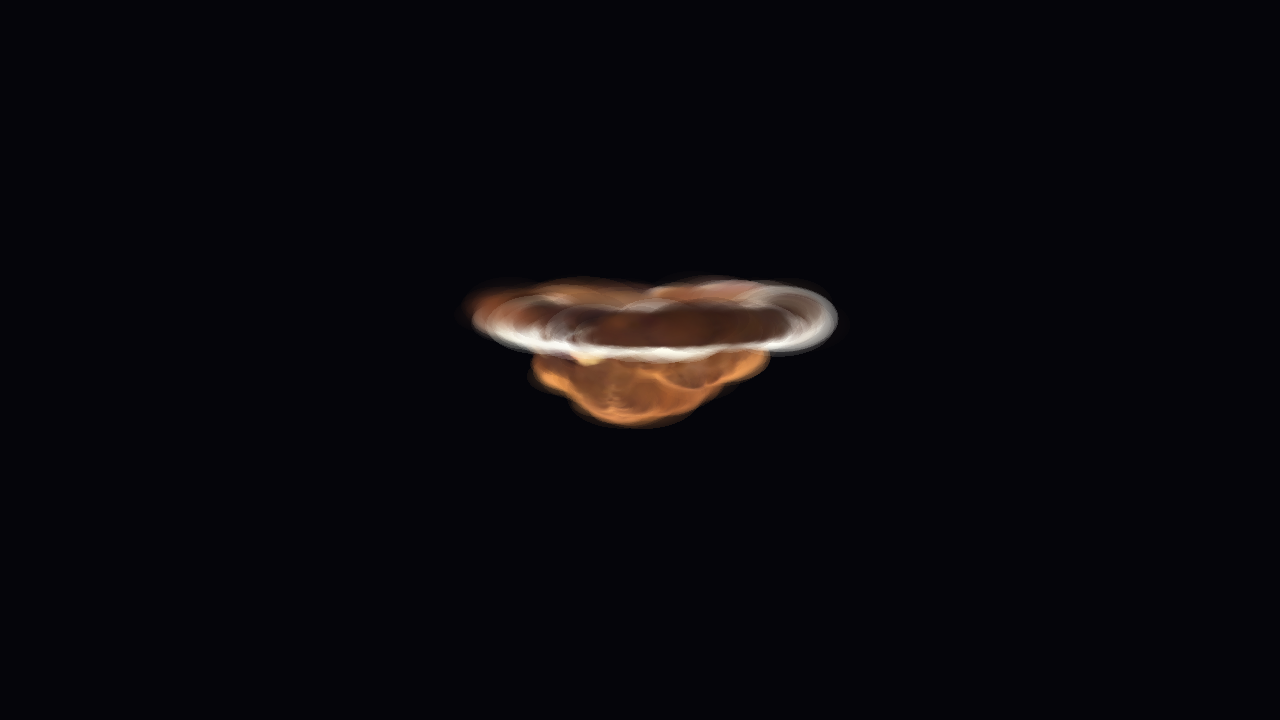
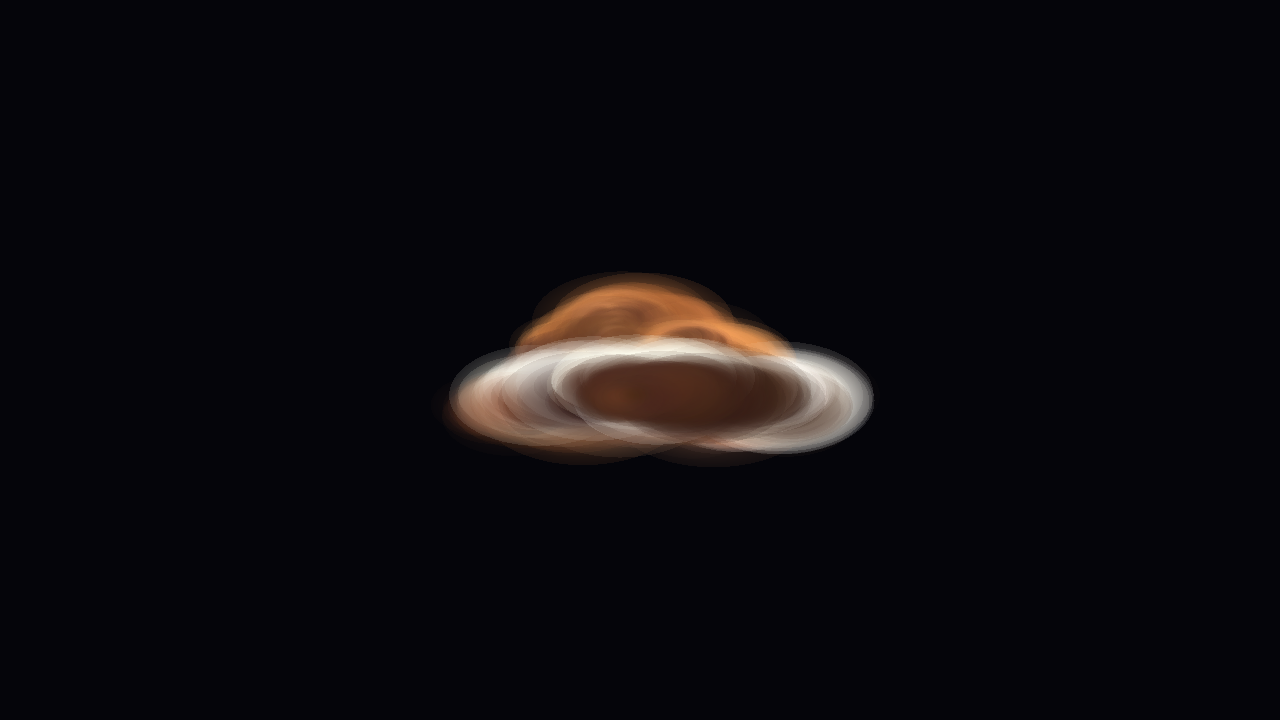
Stabilize first-smoke viewer orbit and zoom

Changed region(s): [[0.3438, 0.3667, 0.6875, 0.6417]]

diff --git a/src/splatSort.ts b/src/splatSort.ts
@@ -8,7 +8,20 @@ interface DepthKey {
 export interface SplatSortRefreshState {
   sortedIds: Uint32Array;
   viewDepthKey: Float32Array;
+  lastRefreshMs: number;
 }
+
+export interface SplatSortRefreshOptions {
+  epsilon?: number;
+  minIntervalMs?: number;
+  nowMs?: number;
+}
+
+type NormalizedSplatSortRefreshOptions = {
+  epsilon: number;
+  minIntervalMs?: number;
+  nowMs?: number;
+};
 
 const VIEW_DEPTH_DIRECTION_INDICES = [2, 6, 10] as const;
 
@@ -44,6 +57,7 @@ export function createSplatSortRefreshState(
   return {
     sortedIds: sortSplatIdsBackToFront(positions, viewMatrix),
     viewDepthKey: captureViewDepthKey(viewMatrix),
+    lastRefreshMs: Number.NEGATIVE_INFINITY,
   };
 }
 
@@ -51,15 +65,39 @@ export function refreshSplatSortForView(
   positions: NumericArray,
   viewMatrix: NumericArray,
   state: SplatSortRefreshState,
-  epsilon = 1e-6
+  options: SplatSortRefreshOptions | number = {}
 ): boolean {
+  const { epsilon, minIntervalMs, nowMs } = normalizeRefreshOptions(options);
   if (!viewDepthKeyChanged(state.viewDepthKey, viewMatrix, epsilon)) {
+    return false;
+  }
+  if (
+    minIntervalMs !== undefined &&
+    nowMs !== undefined &&
+    nowMs - state.lastRefreshMs < minIntervalMs
+  ) {
     return false;
   }
 
   state.sortedIds = sortSplatIdsBackToFront(positions, viewMatrix);
   state.viewDepthKey = captureViewDepthKey(viewMatrix);
+  if (nowMs !== undefined) {
+    state.lastRefreshMs = nowMs;
+  }
   return true;
+}
+
+function normalizeRefreshOptions(
+  options: SplatSortRefreshOptions | number
+): NormalizedSplatSortRefreshOptions {
+  if (typeof options === "number") {
+    return { epsilon: options };
+  }
+  return {
+    epsilon: options.epsilon ?? 1e-6,
+    minIntervalMs: options.minIntervalMs,
+    nowMs: options.nowMs,
+  };
 }
 
 export function captureViewDepthKey(viewMatrix: NumericArray): Float32Array {

diff --git a/src/main.ts b/src/main.ts
@@ -2,11 +2,11 @@ import { initGPU, resizeCanvas, GPU } from "./gpu.js";
 import { createCamera, bindCameraControls, updateCamera, getViewMatrix, getProjectionMatrix } from "./camera.js";
 import { createStorageBuffer, createUniformBuffer } from "./buffers.js";
 import { createTimestamps, resolveTimestamps, readTimestamps, TimestampHelper } from "./timestamps.js";
-import { mulMat4 } from "./math.js";
 import {
   REAL_SCANIVERSE_MIN_RADIUS_PX,
   REAL_SCANIVERSE_SMOKE_ASSET_PATH,
   REAL_SCANIVERSE_SPLAT_SCALE,
+  composeFirstSmokeViewProjection,
   configureCameraForSplatBounds,
   createMeshSplatSmokeEvidence,
   exposeMeshSplatSmokeEvidence,
@@ -21,6 +21,7 @@ import { fetchFirstSmokeSplatPayload, uploadSplatAttributeBuffers } from "./spla
 
 const statsEl = document.getElementById("stats")!;
 const canvas = document.getElementById("canvas") as HTMLCanvasElement;
+const CPU_SORT_REFRESH_MIN_INTERVAL_MS = 125;
 
 async function main() {
   const gpu = await initGPU(canvas);
@@ -113,8 +114,13 @@ async function main() {
     // Upload uniforms
     const view = getViewMatrix(cam);
     const proj = getProjectionMatrix(cam, aspect);
-    const viewProj = mulMat4(proj, view);
-    if (refreshSplatSortForView(splatAttributes.positions, view, sortState)) {
+    const viewProj = composeFirstSmokeViewProjection(proj, view);
+    if (
+      refreshSplatSortForView(splatAttributes.positions, view, sortState, {
+        minIntervalMs: CPU_SORT_REFRESH_MIN_INTERVAL_MS,
+        nowMs: now,
+      })
+    ) {
       gpu.device.queue.writeBuffer(sortedIndexBuffer, 0, sortState.sortedIds);
     }
     writeSplatPlateFrameUniforms(

diff --git a/tests/cpuDepthSort.test.ts b/tests/cpuDepthSort.test.ts
@@ -134,6 +134,54 @@ test("does not refresh when only camera depth translation changes", () => {
   assert.deepEqual(Array.from(state.sortedIds), [1, 0]);
 });
 
+test("throttles repeated refreshes for interactive CPU sorting", () => {
+  const positions = new Float32Array([
+    -1, 0, 0, // id 0
+    1, 0, 0, // id 1
+  ]);
+  const xDepthView = new Float32Array([
+    1, 0, 1, 0,
+    0, 1, 0, 0,
+    0, 0, 0, 0,
+    0, 0, 0, 1,
+  ]);
+  const negXDepthView = new Float32Array([
+    1, 0, -1, 0,
+    0, 1, 0, 0,
+    0, 0, 0, 0,
+    0, 0, 0, 1,
+  ]);
+
+  const state = createSplatSortRefreshState(positions, xDepthView);
+
+  assert.equal(
+    refreshSplatSortForView(positions, negXDepthView, state, {
+      minIntervalMs: 100,
+      nowMs: 0,
+    }),
+    true
+  );
+  assert.deepEqual(Array.from(state.sortedIds), [1, 0]);
+
+  assert.equal(
+    refreshSplatSortForView(positions, xDepthView, state, {
+      minIntervalMs: 100,
+      nowMs: 50,
+    }),
+    false
+  );
+  assert.deepEqual(Array.from(state.sortedIds), [1, 0]);
+
+  assert.equal(
+    refreshSplatSortForView(positions, xDepthView, state, {
+      minIntervalMs: 100,
+      nowMs: 100,
+    }),
+    true
+  );
+  assert.deepEqual(Array.from(state.sortedIds), [0, 1]);
+});
+
 test("rejects malformed position and matrix inputs", () => {
   assert.throws(
     () => sortSplatIdsBackToFront(new Float32Array([0, 1]), identityView),

diff --git a/src/realSmokeScene.ts b/src/realSmokeScene.ts
@@ -1,4 +1,5 @@
 import type { Camera } from "./camera.js";
+import { mulMat4, type mat4 } from "./math.js";
 import { framingFromBounds, type SplatAttributes, type SplatBounds } from "./splats.js";
 
 export const REAL_SCANIVERSE_SMOKE_ASSET_PATH =
@@ -6,6 +7,13 @@ export const REAL_SCANIVERSE_SMOKE_ASSET_PATH =
 
 export const REAL_SCANIVERSE_SPLAT_SCALE = 3000;
 export const REAL_SCANIVERSE_MIN_RADIUS_PX = 1.5;
+
+const VIEWER_VERTICAL_FLIP = new Float32Array([
+  1, 0, 0, 0,
+  0, -1, 0, 0,
+  0, 0, 1, 0,
+  0, 0, 0, 1,
+]);
 
 export interface MeshSplatSmokeEvidence {
   readonly ready: boolean;
@@ -33,6 +41,10 @@ export function configureCameraForSplatBounds(camera: Camera, bounds: SplatBound
   camera.far = framing.far;
   camera.azimuth = 0;
   camera.elevation = 0.18;
+}
+
+export function composeFirstSmokeViewProjection(projection: mat4, view: mat4): mat4 {
+  return mulMat4(VIEWER_VERTICAL_FLIP, mulMat4(projection, view));
 }
 
 export function createMeshSplatSmokeEvidence(

diff --git a/src/splatPlateContract.ts b/src/splatPlateContract.ts
@@ -29,6 +29,29 @@ export function getSplatPlateDrawCall(splatCount: number): SplatPlateDrawCall | 
   };
 }
 
+export function computeSplatPlateRadiusPx(
+  radius: number,
+  clipW: number,
+  splatScale = 1,
+  minRadiusPx = 1.5
+): number {
+  if (!Number.isFinite(radius) || radius < 0) {
+    throw new Error("Splat radius must be a finite non-negative number");
+  }
+  if (!Number.isFinite(clipW)) {
+    throw new Error("Splat clip w must be finite");
+  }
+  if (!Number.isFinite(splatScale) || splatScale < 0) {
+    throw new Error("Splat scale must be a finite non-negative number");
+  }
+  if (!Number.isFinite(minRadiusPx) || minRadiusPx < 0) {
+    throw new Error("Minimum splat radius must be a finite non-negative number");
+  }
+
+  const safeW = Math.max(Math.abs(clipW), 0.001);
+  return Math.max((radius * splatScale) / safeW, minRadiusPx);
+}
+
 export function writeSplatPlateFrameUniforms(
   target: Float32Array,
   viewProj: Float32Array,

diff --git a/smoke-reports/visual-smoke-real/report.md b/smoke-reports/visual-smoke-real/report.md
@@ -1,8 +1,8 @@
 # Visual Smoke Report
 
 - Status: PASS
-- Generated: 2026-04-28T01:59:42.204Z
-- URL: http://127.0.0.1:60033/
+- Generated: 2026-04-28T02:42:56.331Z
+- URL: http://127.0.0.1:63569/
 - Screenshot: `canvas.png`
 - Analysis JSON: `analysis.json`
 
@@ -10,9 +10,9 @@
 
 - Canvas PNG: 1280x720
 - Nonblank: true
-- Changed pixels: 38111 / 921600 (4.135%)
-- Average background delta: 3.66
-- Distinct colors: 22509
+- Changed pixels: 57911 / 921600 (6.284%)
+- Average background delta: 5.71
+- Distinct colors: 24831
 
 ## Splat Evidence
 
@@ -41,9 +41,9 @@
   "splatCount": 94406,
   "sortedIdCount": 94406,
   "boundsRadius": 0.22154541313648224,
-  "statsText": "1280×720 | 30 fps | 94,406 real Scaniverse splats | render: 21.38ms",
+  "statsText": "1280×720 | 111 fps | 94,406 real Scaniverse splats | render: 2.80ms",
   "title": "Deferred Splat+Mesh Renderer",
-  "bodyText": "1280×720 | 30 fps | 94,406 real Scaniverse splats | render: 21.38ms",
+  "bodyText": "1280×720 | 111 fps | 94,406 real Scaniverse splats | render: 2.80ms",
   "canvas": {
     "width": 1280,
     "height": 720,
